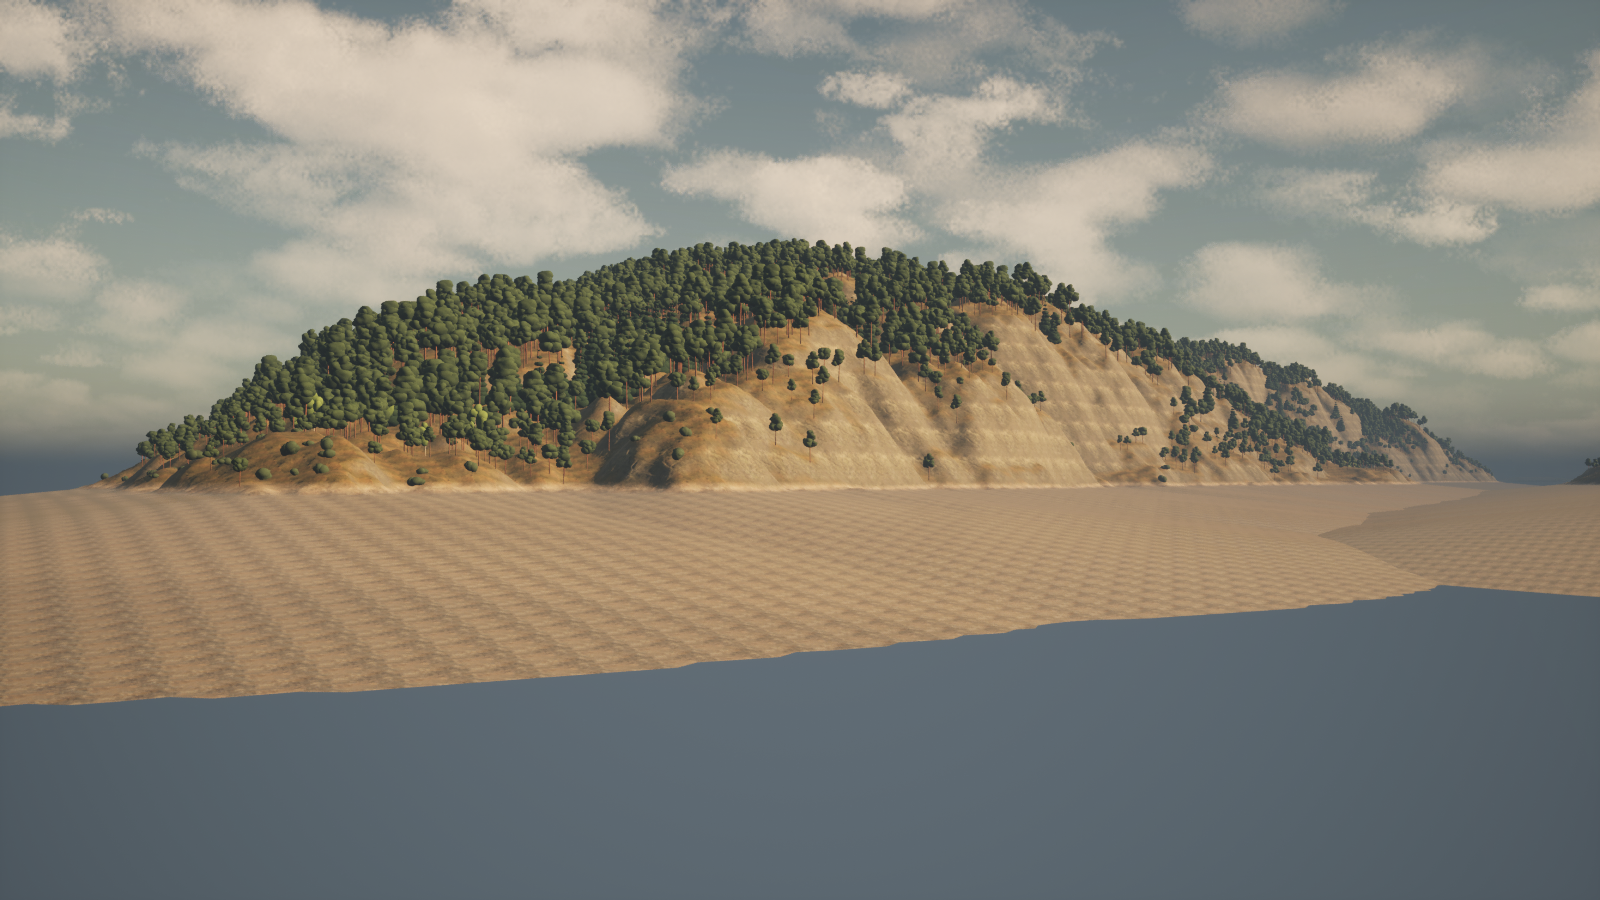
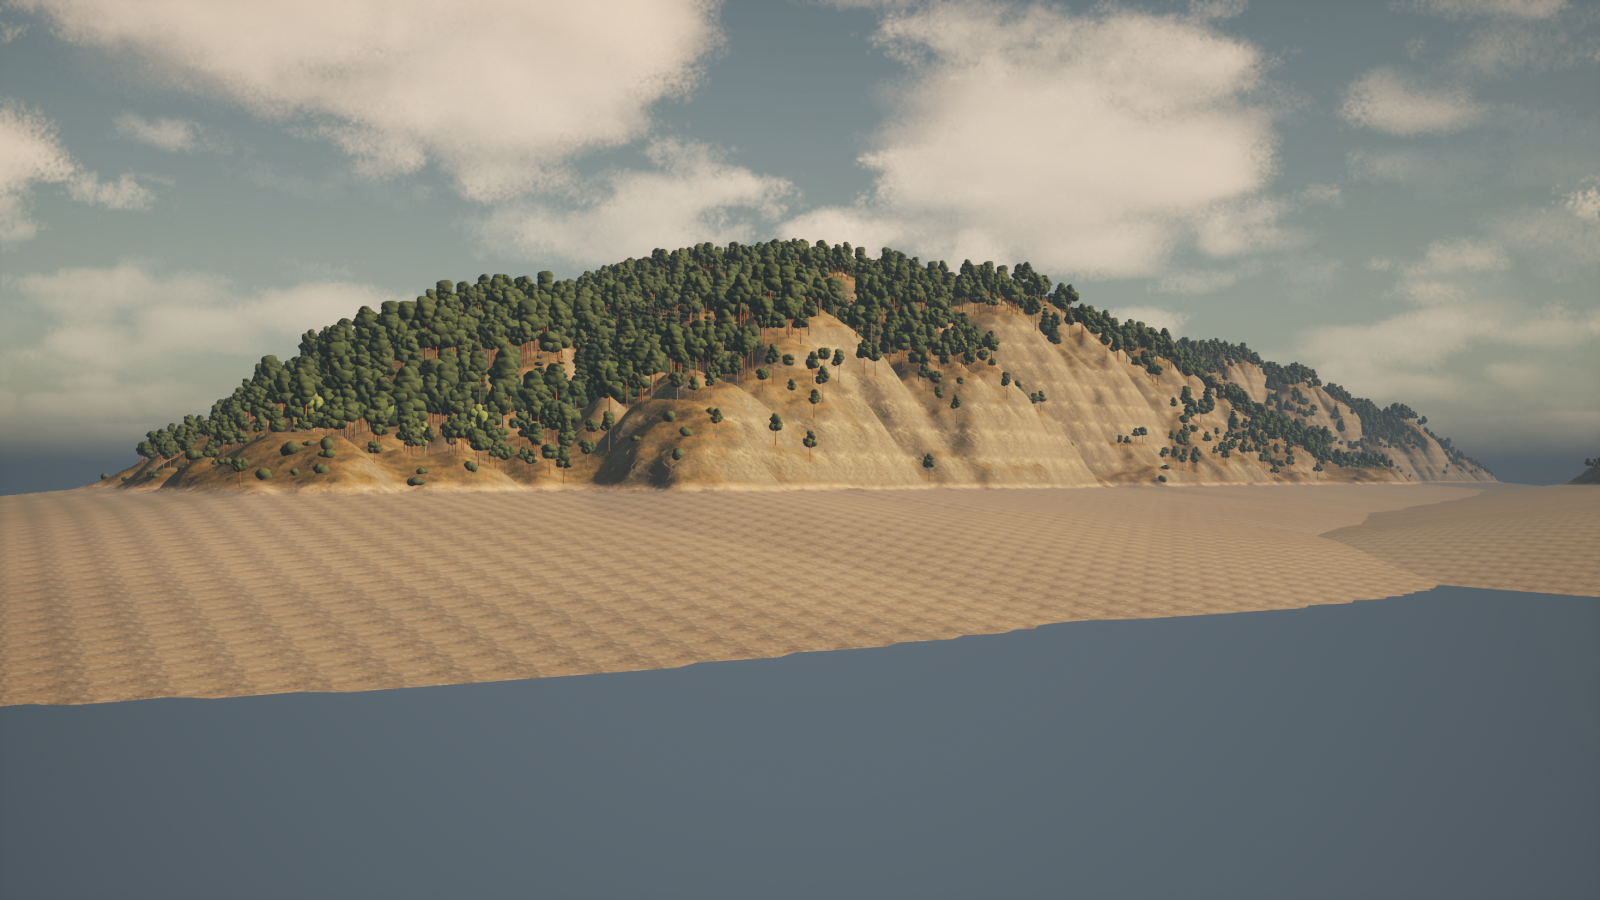
A/B-verktøy: --arg for kommandolinjeflagg, -FjordTreeShadow=0
Gyldig fullskjermmåling med vegetasjon (1600x900 Epic, 2026-09-18):
Hovedøya 53,1 / nær 50,9 / Gressholmen 53,8 / Lindøya 53,9 / Håøya 59,7 / oversikt 46,5 fps.
A/B: trær uten skyggekasting = identisk (treskygger er gratis); alle dynamiske skygger av
= +16–27 fps (kostnaden ligger i scenens øvrige skygger); r.Shadow.DistanceScale 0.4 = ingen
effekt. Seilestasjonene holder målet på ~50 fps; oversikten (600 m høyde) ligger under.

diff --git a/Source/Sailing/Private/IslandActor.cpp b/Source/Sailing/Private/IslandActor.cpp
@@ -4,6 +4,7 @@
 #include "FjordGeometry.h"
 #include "Sailing.h"
 #include "FjordIslandBakeData.h"
+#include "Misc/CommandLine.h"
 #include "Components/InstancedStaticMeshComponent.h"
 #include "Components/StaticMeshComponent.h"
 #include "Components/SphereComponent.h"
@@ -196,7 +197,11 @@ void AIslandActor::BuildBakedInstances(const UFjordIslandBakeData* Data)
 		// (festingen avvises stille og komponenten blir liggende i verdens origo).
 		ISM->SetMobility(RootComponent->Mobility);
 		ISM->SetCollisionEnabled(ECollisionEnabled::NoCollision);
-		ISM->SetCastShadow(Set.bCastShadow);
+		// -FjordTreeShadow=0 slår av skyggekasting for A/B-måling (scripts/run_fullscreen.sh --exec virker
+		// ikke her: dette er en komponentegenskap, ikke en konsollvariabel).
+		int32 TreeShadow = 1;
+		FParse::Value(FCommandLine::Get(), TEXT("FjordTreeShadow="), TreeShadow);
+		ISM->SetCastShadow(Set.bCastShadow && TreeShadow != 0);
 		ISM->SetCanEverAffectNavigation(false);
 		if (Set.CullDistance > 0.0f)
 		{
